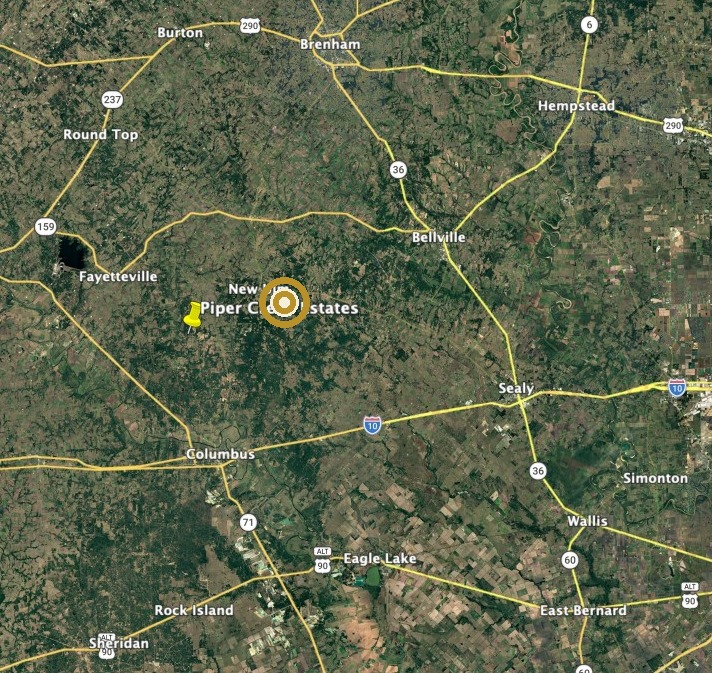
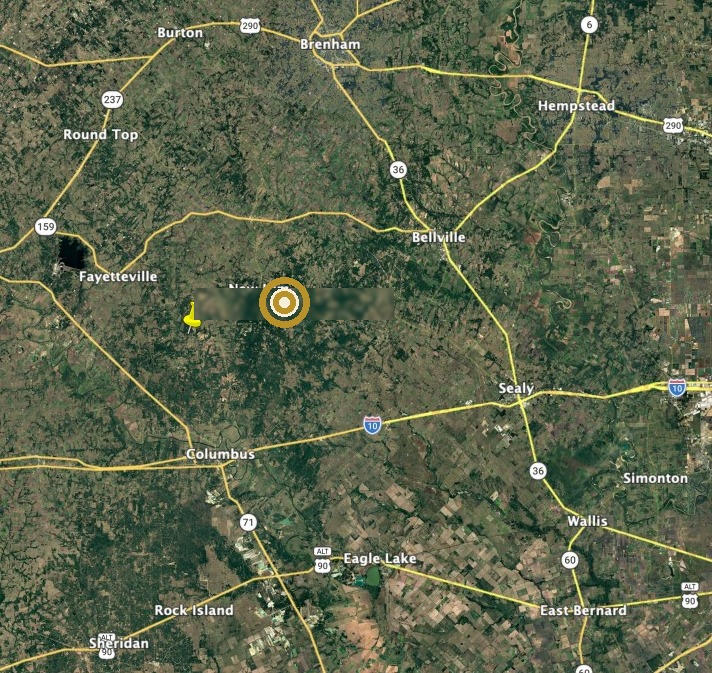
Clean regional map: remove Google Earth text, clean gold marker with callout

Changed region(s): [[0.4326, 0.4056, 0.5562, 0.4993], [0.2472, 0.4056, 0.4017, 0.4993]]

diff --git a/styles.css b/styles.css
@@ -316,29 +316,28 @@ ul { list-style: none; }
 }
 .pin__label--callout {
   position: absolute;
-  top: -42px;
+  top: -52px;
   left: 50%;
   transform: translateX(-50%);
-  font-size: 0.75rem;
-  padding: 6px 16px;
-  background: rgba(26, 22, 18, 0.92);
+  font-size: 0.78rem;
+  padding: 8px 18px;
+  background: rgba(26, 22, 18, 0.95);
   border: 2px solid var(--gold);
   border-radius: 4px;
-  box-shadow: 0 4px 16px rgba(0,0,0,0.3);
+  box-shadow: 0 4px 20px rgba(0,0,0,0.5);
 }
 .pin__label--callout::after {
   content: '';
   position: absolute;
-  bottom: -7px;
+  bottom: -8px;
   left: 50%;
   transform: translateX(-50%);
   width: 0;
   height: 0;
-  border-left: 7px solid transparent;
-  border-right: 7px solid transparent;
-  border-top: 7px solid var(--gold);
+  border-left: 8px solid transparent;
+  border-right: 8px solid transparent;
+  border-top: 8px solid var(--gold);
 }
-
 /* Interactive lot pins */
 .pin--interactive {
   pointer-events: auto;
